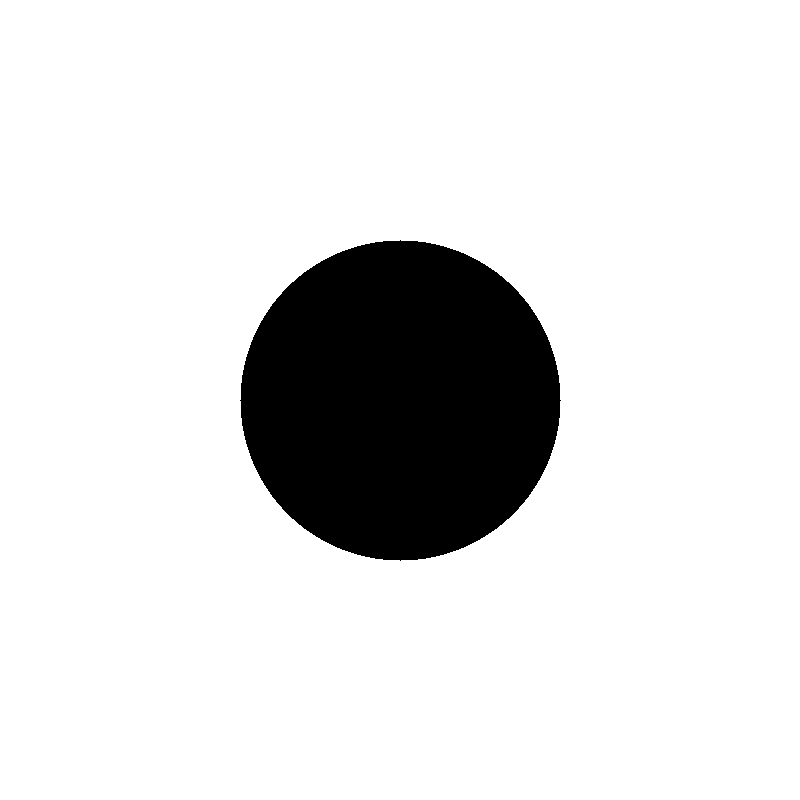
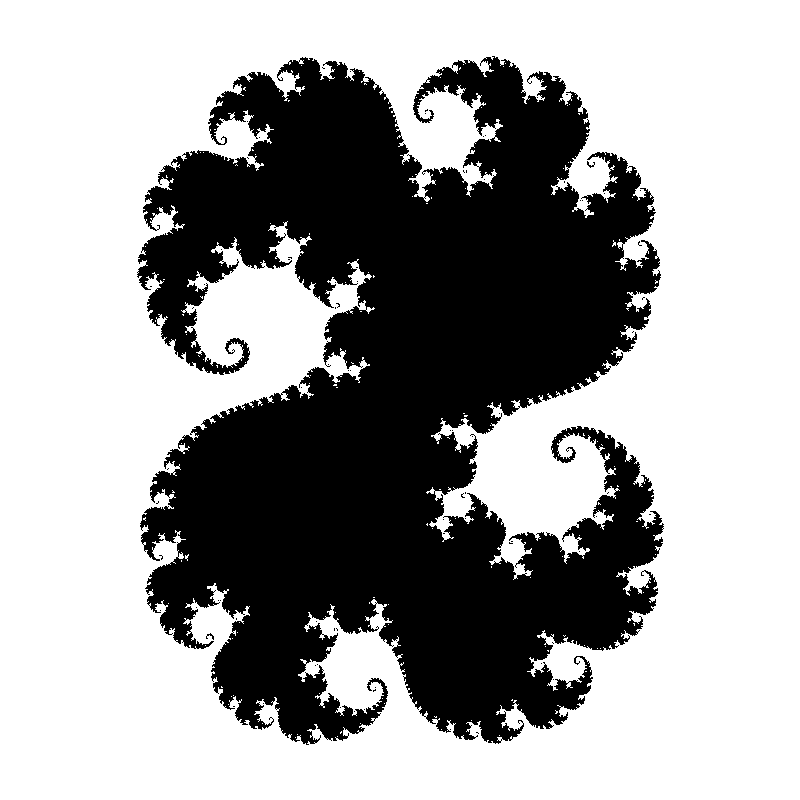
Added iterations to the circle function and I am now creating a julia set; will move this to a new function to separate the two

Changed region(s): [[0.1562, 0.0625, 0.8438, 0.9375]]

diff --git a/base/Fractal.C b/base/Fractal.C
@@ -13,6 +13,21 @@ void image::circle(const ImgProc& in, ImgProc& out, float radius, float bounds) 
             Point P;
             P.X = 2.0 * bounds * ((double)i / (double)in.GetNx()) - bounds;
             P.Y = 2.0 * bounds * ((double)j / (double)in.GetNy()) - bounds;
+            P.X *= 0.25;
+            P.Y *= 0.25;
+
+            std::complex<long double> z(P.X,P.Y);
+            std::complex<long double> c(.274, -0.008);
+
+            for (int n = 0; n < 100; n++) {
+
+                z *= z;
+                z += c;
+
+                P.X = z.real();
+                P.Y = z.imag();
+
+            }
 
             double mag = std::sqrt(P.X * P.X + P.Y * P.Y);
 
